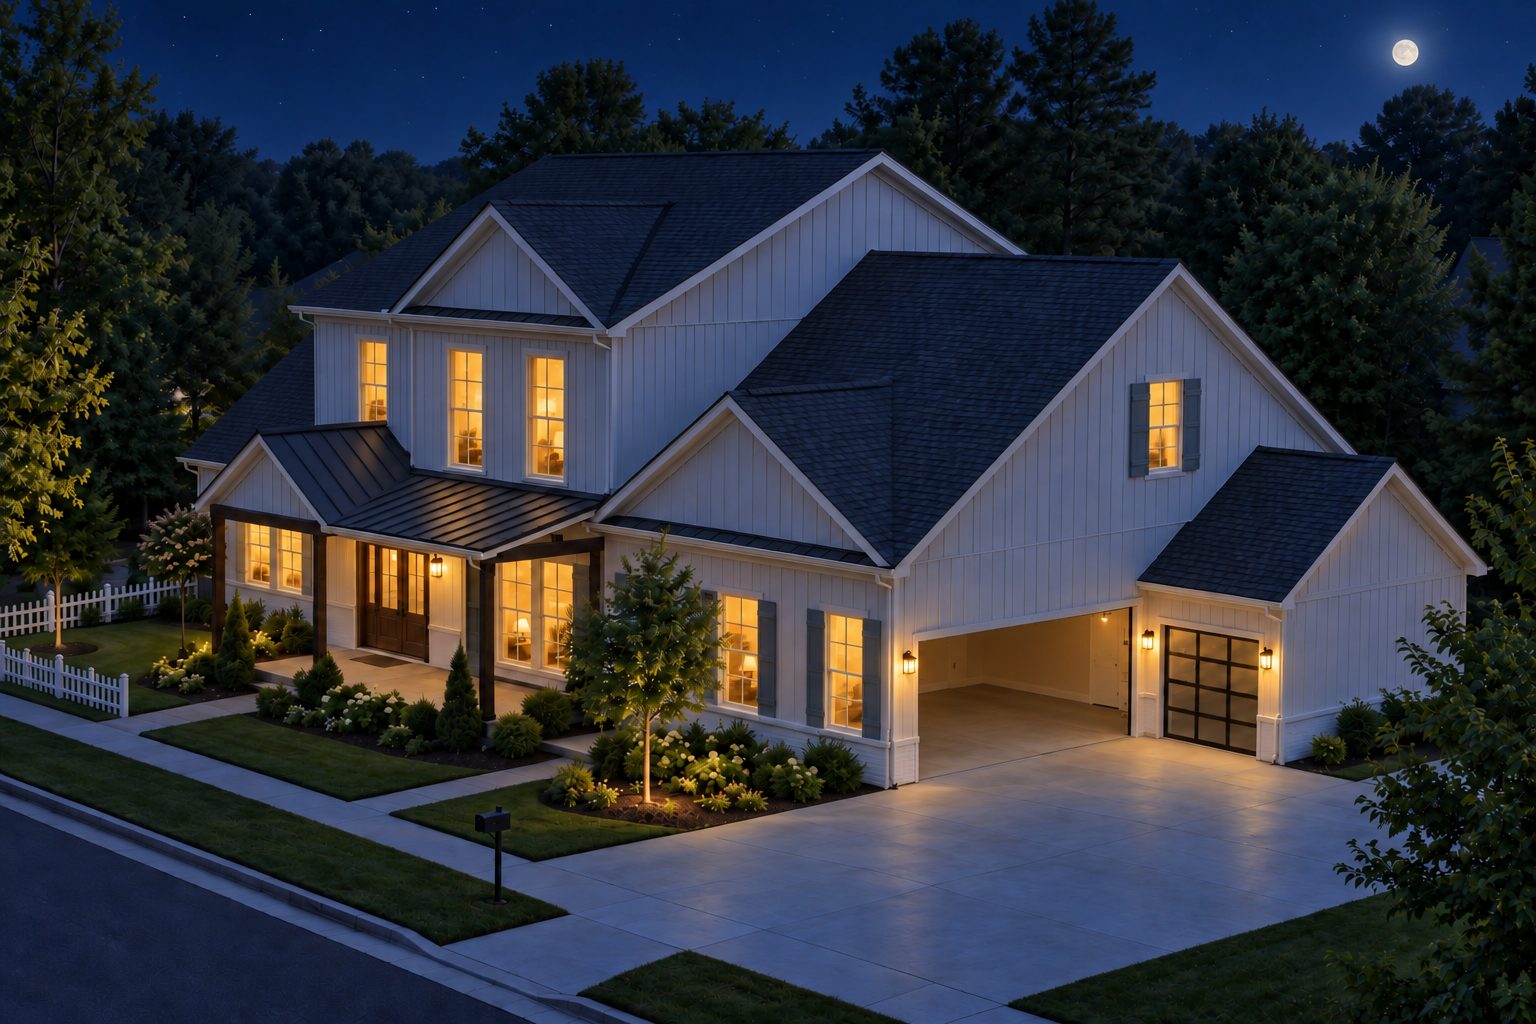
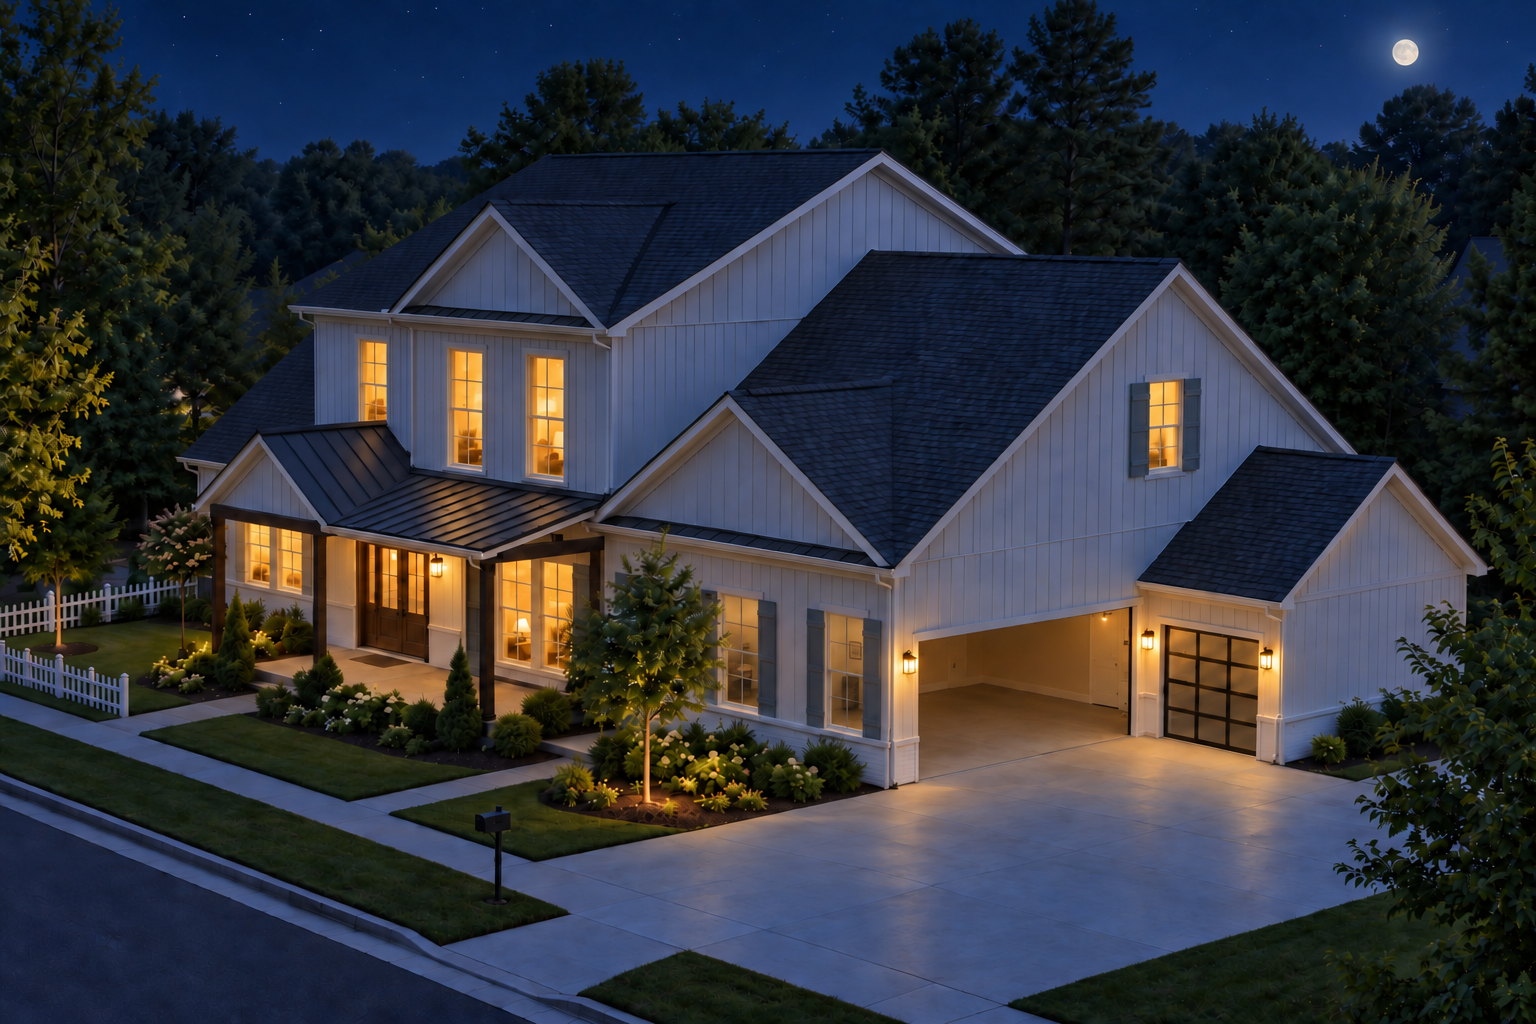
fix(house): remove garage lighting seams and room-like windows

diff --git a/chauffeur/static/house_garage.js b/chauffeur/static/house_garage.js
@@ -6,9 +6,7 @@
   var vehicles = window.ChauffeurHouseVehicles;
   var lighting = window.ChauffeurSceneLight, bayRequested = false;
   var isPreview = document.body.dataset.housePreview === 'true';
-  var empty = document.getElementById('garage-empty');
-  var occupied = document.getElementById('garage-occupied');
-  var occupiedRight = document.getElementById('garage-occupied-right');
+  var sceneImage = document.getElementById('garage-scene');
   var select = document.getElementById('garage-presence');
   var state = document.getElementById('garage-state');
   var carButton = document.getElementById('garage-car');
@@ -23,7 +21,7 @@
   function current() { return fleet.find(item => String(item.id) === activeId) || null; }
   function garageState() { return car?.present === true ? (rightCar?.present === true ? 'Both' : 'Left') : (rightCar?.present === true ? 'Right' : 'Empty'); }
   function project() {
-    [[empty, plane, innerWidth < 700 ? .25 : .5], [clusterPhoto, dashboardPlane, .5]].forEach(function (entry) {
+    [[sceneImage, plane, innerWidth < 700 ? .25 : .5], [clusterPhoto, dashboardPlane, .5]].forEach(function (entry) {
       var image = entry[0], target = entry[1];
       if (!image.naturalWidth) return;
       var scale = Math.max(innerWidth/image.naturalWidth, innerHeight/image.naturalHeight);
@@ -98,7 +96,6 @@
     var home = mode === 'home' || (mode === 'live' && car?.present === true);
     var rightHome = rightCar?.present === true;
     room.dataset.occupied = String(home); room.dataset.rightOccupied = String(rightHome);
-    occupied.style.opacity = home ? '1' : '0'; occupiedRight.style.opacity = rightHome ? '1' : '0';
     carButton.hidden = !home; rightButton.hidden = !rightHome;
     carButton.setAttribute('aria-label', car ? 'View '+car.name+' instrument cluster' : 'Preview instrument cluster');
     rightButton.setAttribute('aria-label', rightCar ? 'View '+rightCar.name+' instrument cluster' : 'Vehicle instruments');
@@ -109,6 +106,7 @@
     text('garage-assignment', [car?.name, rightCar?.name].filter(Boolean).join(' · ') || 'No vehicles assigned');
     if (activeId && current()?.present !== true) back(true);
     cluster();
+    if (bayRequested) window.chfGarageReady().catch(function () { state.textContent = 'Garage artwork could not refresh.'; });
     if (room.dataset.view === 'dashboard') loadCluster().catch(function () { state.textContent = 'Vehicle view could not refresh.'; });
   }
   function accept(data) {
@@ -143,16 +141,26 @@
   window.addEventListener('chf-house-state', e => accept(e.detail));
   window.chfGarageReady = async function () {
     bayRequested = true;
-    var dark = lighting.night(), images = [empty, occupied, occupiedRight];
-    var sources = images.map(image => lighting.source(image, 'src', dark));
-    await Promise.all(sources.map(lighting.load));
-    if (dark !== lighting.night()) return window.chfGarageReady();
-    images.forEach(function (image, i) { image.src = sources[i]; });
-    await Promise.all(images.map(image => image.decode()));
-    if (dark !== lighting.night()) return window.chfGarageReady();
+    var dark = lighting.night(), parking = bayState();
+    var source = lighting.source(sceneImage, parking, dark);
+    await lighting.load(source);
+    if (dark !== lighting.night() || parking !== bayState()) return window.chfGarageReady();
+    if (sceneImage.getAttribute('src') !== source) sceneImage.src = source;
+    try { await sceneImage.decode(); }
+    catch (error) {
+      if (dark !== lighting.night() || parking !== bayState()) return window.chfGarageReady();
+      throw error;
+    }
+    if (dark !== lighting.night() || parking !== bayState()) return window.chfGarageReady();
     room.dataset.light = dark ? 'night' : 'day';
+    room.dataset.parking = parking;
     project();
   };
+  // A complete photograph for each occupancy avoids a lighting seam at the bay boundary.
+  function bayState() {
+    return room.dataset.occupied === 'true' ? (room.dataset.rightOccupied === 'true' ? 'both' : 'left')
+      : (room.dataset.rightOccupied === 'true' ? 'right' : 'empty');
+  }
   window.addEventListener('chf-house-light', function () {
     if (bayRequested) window.chfGarageReady().catch(function () { state.textContent = 'Garage lighting could not refresh.'; });
     if (room.dataset.view === 'dashboard') loadCluster().catch(function () { state.textContent = 'Vehicle lighting could not refresh.'; });

diff --git a/chauffeur/static/house_garage.css b/chauffeur/static/house_garage.css
@@ -4,7 +4,6 @@
 body[data-house-scene=entering] #hybrid-garage{z-index:44;pointer-events:none}
 #garage-images,#garage-images img{position:absolute;inset:0;width:100%;height:100%}
 #garage-images img{object-fit:cover;object-position:center;pointer-events:none}
-#garage-occupied{transition:opacity 900ms ease}
 .garage-heading{position:absolute;top:90px;left:26px;padding:16px 22px;background:#192b26d9;border-radius:15px;pointer-events:none}
 .garage-heading span{font-size:10px;letter-spacing:.2em}.garage-heading h1{font:30px Georgia;margin:6px 0}.garage-heading p{font-size:12px;margin:0}
 #hybrid-garage button,#garage-presence{min-height:44px;border:1px solid #e5d3ab80;background:#192b26ec;color:#fff4da;border-radius:22px;padding:10px 16px;cursor:pointer}
@@ -16,10 +15,8 @@ body[data-house-scene=entering] #hybrid-garage{z-index:44;pointer-events:none}
 body[data-house-scene=garage] #hybrid-room,body[data-house-scene=garage] #house-comparison{visibility:hidden;pointer-events:none}
 body[data-house-scene=garage] #hybrid-outside{display:block;top:225px}
 @media(max-width:700px){.garage-heading{top:80px;left:12px;padding:12px}.garage-controls{flex-wrap:wrap;justify-content:center;bottom:95px;gap:8px}.garage-controls p{width:100%;text-align:center}.garage-controls button{font-size:12px}#garage-presence{max-width:180px}.garage-heading h1{font-size:24px}body[data-house-scene=garage] #hybrid-outside{top:200px}}
-@media(prefers-reduced-motion:reduce){#garage-occupied{transition:none}}
 #garage-images{inset:auto;transform-origin:30% 55%;transition:transform .65s ease}
 #garage-images img{object-fit:fill}
-#garage-occupied{mask-image:linear-gradient(to right,#000 0%,#000 53%,transparent 56%);-webkit-mask-image:linear-gradient(to right,#000 0%,#000 53%,transparent 56%)}
 #hybrid-garage #garage-car{left:17%;top:35%;width:35%;height:41%;z-index:2}
 #garage-dashboard{position:absolute;inset:0;z-index:4;background:#131718;animation:garage-dashboard-in .65s ease}
 #garage-dashboard[hidden]{display:none}
@@ -38,14 +35,11 @@ body:has(#hybrid-garage[data-view=dashboard]) #hybrid-outside{display:none}
 @keyframes garage-dashboard-in{from{opacity:0;transform:scale(1.04)}to{opacity:1;transform:scale(1)}}
 @media(prefers-reduced-motion:reduce){#garage-images{transition:none}#garage-dashboard{animation:none}.cluster-charge-track i{transition:none}}
 
-/* One photographic source, independently visible left/right parking spaces. */
-#garage-occupied{mask-image:none;-webkit-mask-image:none;clip-path:inset(0 50% 0 0)}
-#garage-occupied-right{clip-path:inset(0 0 0 50%);transition:opacity 900ms ease}
+/* Hotspots stay independent; the garage artwork is one continuous photograph. */
 #hybrid-garage #garage-car-right{position:absolute;left:55%;top:27%;width:38%;height:46%;z-index:2;background:transparent;border:0;border-radius:20px}
 #garage-car-right span{opacity:0;background:#192b26e8;padding:10px;border-radius:20px}
 #garage-car-right:hover span,#garage-car-right:focus-visible span{opacity:1}
 #garage-car[hidden],#garage-car-right[hidden]{display:none}
-@media(prefers-reduced-motion:reduce){#garage-occupied-right{transition:none}}
 
 #garage-dashboard[data-profile="gls450-white-23"] #garage-cluster-ui{left:35.5%;top:44%;width:29%;height:19%}
 #garage-dashboard[data-profile="murano-white"] #garage-cluster-ui{left:44.6%;top:44%;width:11%;height:19.6%;gap:.15cqw;font-size:.65cqw}

diff --git a/chauffeur/templates/components/house_exterior.html b/chauffeur/templates/components/house_exterior.html
@@ -24,14 +24,16 @@
 </section>
 <section id="hybrid-garage" data-car-id="{{ request.query_params.get('garage_car', '') }}" hidden inert aria-label="Garage">
   <div id="garage-images">
-    <img id="garage-empty" data-src="{{ 'static/house_hybrid/garage-empty.png'|ver }}"
-         data-src-night="{{ 'static/house_hybrid/garage-empty-night.png'|ver }}" alt="">
+    <img id="garage-scene" data-empty="{{ 'static/house_hybrid/garage-empty.png'|ver }}"
+         data-empty-night="{{ 'static/house_hybrid/garage-empty-night.png'|ver }}"
+         data-left="{{ 'static/house_hybrid/garage-left-day.png'|ver }}"
+         data-left-night="{{ 'static/house_hybrid/garage-left-night.png'|ver }}"
+         data-right="{{ 'static/house_hybrid/garage-right-day.png'|ver }}"
+         data-right-night="{{ 'static/house_hybrid/garage-right-night.png'|ver }}"
+         data-both="{{ 'static/house_hybrid/garage-personal-vehicles.png'|ver }}"
+         data-both-night="{{ 'static/house_hybrid/garage-personal-vehicles-night.png'|ver }}" alt="">
     <button id="garage-car" type="button" aria-label="View instrument cluster"><span>Instrument cluster</span></button>
     <button id="garage-car-right" type="button" aria-label="View vehicle details" hidden><span>Vehicle details</span></button>
-    <img id="garage-occupied-right" data-src="{{ 'static/house_hybrid/garage-personal-vehicles.png'|ver }}"
-         data-src-night="{{ 'static/house_hybrid/garage-personal-vehicles-night.png'|ver }}" alt="">
-    <img id="garage-occupied" data-src="{{ 'static/house_hybrid/garage-personal-vehicles.png'|ver }}"
-         data-src-night="{{ 'static/house_hybrid/garage-personal-vehicles-night.png'|ver }}" alt="">
   </div>
   <header class="garage-heading"><span data-house-preview-only>TWO-BAY PROTOTYPE</span><h1>Garage</h1><p id="garage-assignment">No vehicles assigned</p></header>
   <div id="garage-dashboard" hidden>

diff --git a/chauffeur/tests/test_house_exterior_lighting_live.py b/chauffeur/tests/test_house_exterior_lighting_live.py
@@ -38,9 +38,16 @@ def main():
                         i.getAttribute('src')===i.dataset[value==='night'?'srcNight':'src']);
                 }''', arg=value)
             def bay(value):
-                page.wait_for_function('''value => document.getElementById('hybrid-garage').dataset.light===value &&
-                    [...document.querySelectorAll('#garage-images img')].every(i=>i.complete && i.naturalWidth &&
-                        i.getAttribute('src')===i.dataset[value==='night'?'srcNight':'src'])''', arg=value)
+                page.wait_for_function('''value => {
+                    const room=document.getElementById('hybrid-garage');
+                    const parking=room.dataset.occupied==='true' ? (room.dataset.rightOccupied==='true'?'both':'left')
+                        : (room.dataset.rightOccupied==='true'?'right':'empty');
+                    const images=[...document.querySelectorAll('#garage-images img')];
+                    return room.dataset.light===value && room.dataset.parking===parking && images.length===1 &&
+                        images.every(i=>i.complete && i.naturalWidth &&
+                            i.getAttribute('src')===i.dataset[parking+(value==='night'?'Night':'')] &&
+                            getComputedStyle(i).clipPath==='none' && getComputedStyle(i).maskImage==='none');
+                }''', arg=value)
             def cabin(stem, value):
                 page.wait_for_function('''([stem,value]) => {
                     const img=document.getElementById('garage-cluster-photo');
@@ -67,6 +74,7 @@ def main():
                 page.evaluate('chfHybridHome()')
                 exterior('night')
             # Every parking combination and windshield background in both lighting modes.
+            page.set_viewport_size({'width': 2470, 'height': 1236})
             for value in ('day', 'night'):
                 light(value); exterior(value)
                 for left, right in itertools.product((False, True), repeat=2):
@@ -74,6 +82,10 @@ def main():
                     payload['garage']['cars'][1]['present'] = right
                     refresh(); exterior(value)
                     assert page.locator('.exterior-garage-car').count() == int(left)+int(right)
+                    page.evaluate('chfHybridGo("garage")'); bay(value)
+                    parking = 'both' if left and right else 'left' if left else 'right' if right else 'empty'
+                    page.screenshot(path=str(OUT/('garage-'+parking+'-'+value+'.png')))
+                    page.evaluate('chfHybridHome()')
                     page.evaluate('chfVehicleCluster("murano")')
                     stem = 'cluster-murano-' + ('driveway' if left and right else 'left' if left else 'right' if right else 'empty')
                     cabin(stem, value); bay(value)
@@ -100,6 +112,15 @@ def main():
             # Phone layout retains the same artwork and live instruments.
             page.set_viewport_size({'width': 390, 'height': 844})
             page.screenshot(path=str(OUT/'exterior-night-phone.png'))
+            page.evaluate('chfHybridGo("garage")')
+            payload['garage']['cars'][0]['present'] = False
+            refresh(); bay('night')
+            assert page.locator('#garage-car').is_hidden()
+            assert page.locator('#garage-car-right').is_visible()
+            page.screenshot(path=str(OUT/'garage-right-night-phone.png'))
+            payload['garage']['cars'][0]['present'] = True
+            refresh(); bay('night')
+            page.evaluate('chfHybridHome()')
             page.evaluate('chfVehicleCluster("murano")'); cabin('cluster-murano-driveway', 'night')
             assert page.locator('#cluster-energy').inner_text() == '43%'
             page.screenshot(path=str(OUT/'cluster-night-phone.png'))

diff --git a/chauffeur/static/house_hybrid/garage-occupancy-assets.md b/chauffeur/static/house_hybrid/garage-occupancy-assets.md
@@ -1,0 +1,26 @@
+# Complete single-car garage artwork
+
+Created with built-in ImageGen on 2026-09-26. Outputs saved beside this document: `garage-left-day.png`, `garage-right-day.png`, `garage-left-night.png`, `garage-right-night.png`.
+
+The renderer selects one full photograph for empty, left-only, right-only or both-home occupancy. This replaces clipped halves of the empty and occupied photographs, whose lighting differed and produced a vertical seam. Day and night each have all four states. Existing empty and both-home artwork remains unchanged.
+
+For each edit, image 1 is `garage-personal-vehicles.png` (day) or `garage-personal-vehicles-night.png` (night). Image 2 is the matching `garage-empty.png` or `garage-empty-night.png`.
+
+## garage-left-day
+
+Use case: precise-object-edit. Image 1 is EDIT TARGET, a two-car garage. Image 2 is reference ONLY for cabinetry and floor hidden behind cars. Produce a single seamless full-frame garage photograph at exactly 1536x1024, keeping the camera and all architectural edges and remaining car pixel aligned with image 1. Preserve image 1 lighting and exposure across the ENTIRE scene: no vertical seam, no split lighting, no pasted half-image. Reconstruct continuous wall, cabinetry, floor texture, reflections and physically plausible shadows in the vacated bay. Change only the requested vehicle removal; no additional objects, no text, no UI. REMOVE ONLY the Mercedes SUV on the RIGHT. KEEP the Kia EV9 on the LEFT exactly as-is. Preserve day lighting of image 1. Image 2 must not override its lighting.
+
+## garage-right-day
+
+Use case: precise-object-edit. Image 1 is EDIT TARGET, a two-car garage. Image 2 is reference ONLY for cabinetry and floor hidden behind cars. Produce a single seamless full-frame garage photograph at exactly 1536x1024, keeping the camera and all architectural edges and remaining car pixel aligned with image 1. Preserve image 1 lighting and exposure across the ENTIRE scene: no vertical seam, no split lighting, no pasted half-image. Reconstruct continuous wall, cabinetry, floor texture, reflections and physically plausible shadows in the vacated bay. Change only the requested vehicle removal; no additional objects, no text, no UI. REMOVE ONLY the Kia EV9 on the LEFT. KEEP the Mercedes SUV on the RIGHT exactly as-is. Preserve day lighting of image 1. Image 2 must not override its lighting.
+
+## garage-left-night
+
+Use case: precise-object-edit. Image 1 is EDIT TARGET, a two-car garage. Image 2 is reference ONLY for cabinetry and floor hidden behind cars. Produce a single seamless full-frame garage photograph at exactly 1536x1024, keeping the camera and all architectural edges and remaining car pixel aligned with image 1. Preserve image 1 lighting and exposure across the ENTIRE scene: no vertical seam, no split lighting, no pasted half-image. Reconstruct continuous wall, cabinetry, floor texture, reflections and physically plausible shadows in the vacated bay. Change only the requested vehicle removal; no additional objects, no text, no UI. REMOVE ONLY the Mercedes SUV on the RIGHT. KEEP the Kia EV9 on the LEFT exactly as-is. Preserve night lighting of image 1. Image 2 must not override its lighting.
+
+## garage-right-night
+
+Use case: precise-object-edit. Image 1 is EDIT TARGET, a two-car garage. Image 2 is reference ONLY for cabinetry and floor hidden behind cars. Produce a single seamless full-frame garage photograph at exactly 1536x1024, keeping the camera and all architectural edges and remaining car pixel aligned with image 1. Preserve image 1 lighting and exposure across the ENTIRE scene: no vertical seam, no split lighting, no pasted half-image. Reconstruct continuous wall, cabinetry, floor texture, reflections and physically plausible shadows in the vacated bay. Change only the requested vehicle removal; no additional objects, no text, no UI. REMOVE ONLY the Kia EV9 on the LEFT. KEEP the Mercedes SUV on the RIGHT exactly as-is. Preserve night lighting of image 1. Image 2 must not override its lighting.
+
+Validation: `test_house_exterior_lighting_live.py` captures all eight complete garage views at 2470×1236, checks that each has one unmasked image, and exercises live parking updates on a phone viewport. Screenshots: `scratch/exterior-lighting/garage-{empty,left,right,both}-{day,night}.png`.
+

diff --git a/chauffeur/static/house_hybrid/exterior-night-assets.md b/chauffeur/static/house_hybrid/exterior-night-assets.md
@@ -47,3 +47,12 @@ The shared `chf-house-light` event selects these assets for manual previews and 
 
 Browser proof: `python chauffeur/tests/test_house_exterior_lighting_live.py`. Screenshots are written to `scratch/exterior-lighting/`.
 
+
+## Garage window correction — 2026-09-26
+
+The base `exterior-model-full-block-empty-night.png` was edited with built-in ImageGen to remove domestic furniture and table lamps from the two ground-floor garage windows. This base supplies those windows for every live occupancy state; the vehicle overlays are masked to the garage opening and driveway only.
+
+Exact edit prompt:
+
+Use case: precise-object-edit. This image is the EDIT TARGET. Fix ONLY the interior contents visible through the TWO ground-floor tall narrow windows in the GARAGE wall immediately LEFT of the open double garage bay (approximately x=47–50%, y=58–70%, and x=54–56.5%, y=61–72% in the full image). They incorrectly show a furnished living room and table lamp. These are GARAGE windows: remove the lamps, houseplants, domestic furniture, and room decor visible inside ONLY these two windows. Show subdued warm neutral garage illumination with plain undecorated walls and indistinct utility storage, dimmer than the living room windows. Preserve glazing, mullions, shutters, trim, outside landscaping, and exact window shape. Do NOT modify any other windows, porch, architecture, garage opening, driveway, trees, sky or lighting elsewhere. Preserve original camera, framing, exact 1536x1024 size, and pixel-aligned geometry. No new cars, people, words or UI. Return the entire full-frame corrected night exterior, no crop.
+
